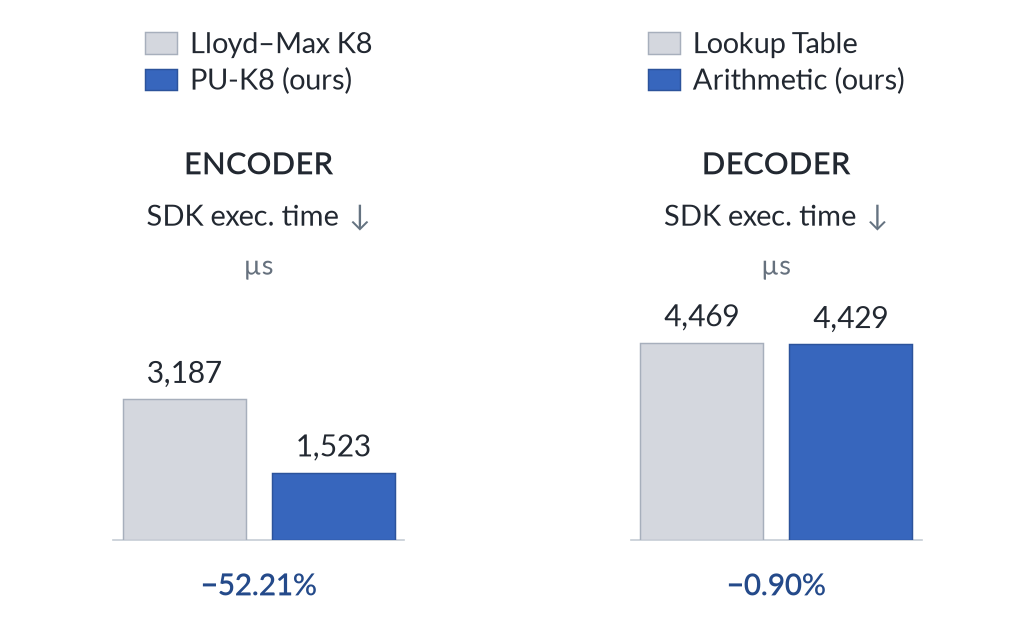
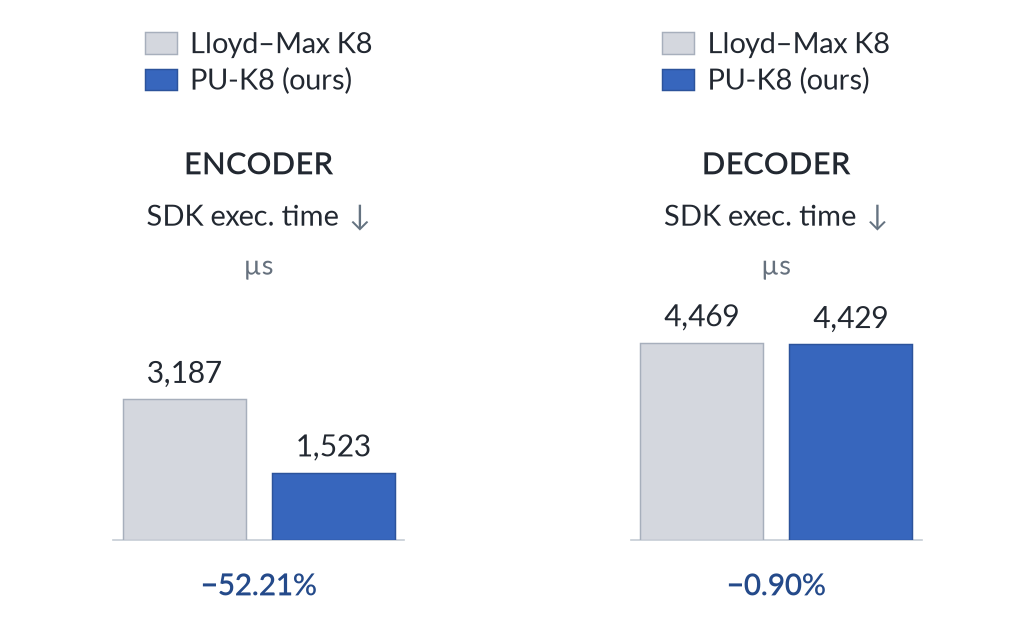
docs: Fig 5. 범례 수정, 수동

Changed region(s): [[0.6184, 0.0302, 0.8657, 0.1508]]

diff --git a/figures/plot_kv_cache_codec_costs.py b/figures/plot_kv_cache_codec_costs.py
@@ -64,7 +64,7 @@ fig = plt.figure(figsize=(3.45, figure_height))
 # and label the component directly above each execution-time panel.
 for center, labels in (
     (0.25, ("Lloyd–Max K8", "PU-K8 (ours)")),
-    (0.75, ("Lookup Table", "Arithmetic (ours)")),
+    (0.75, ("Lloyd–Max K8", "PU-K8 (ours)")),
 ):
     handles = [Patch(facecolor=color, edgecolor=edge, linewidth=0.35, label=label)
                for color, edge, label in zip(COLORS, EDGES, labels)]
